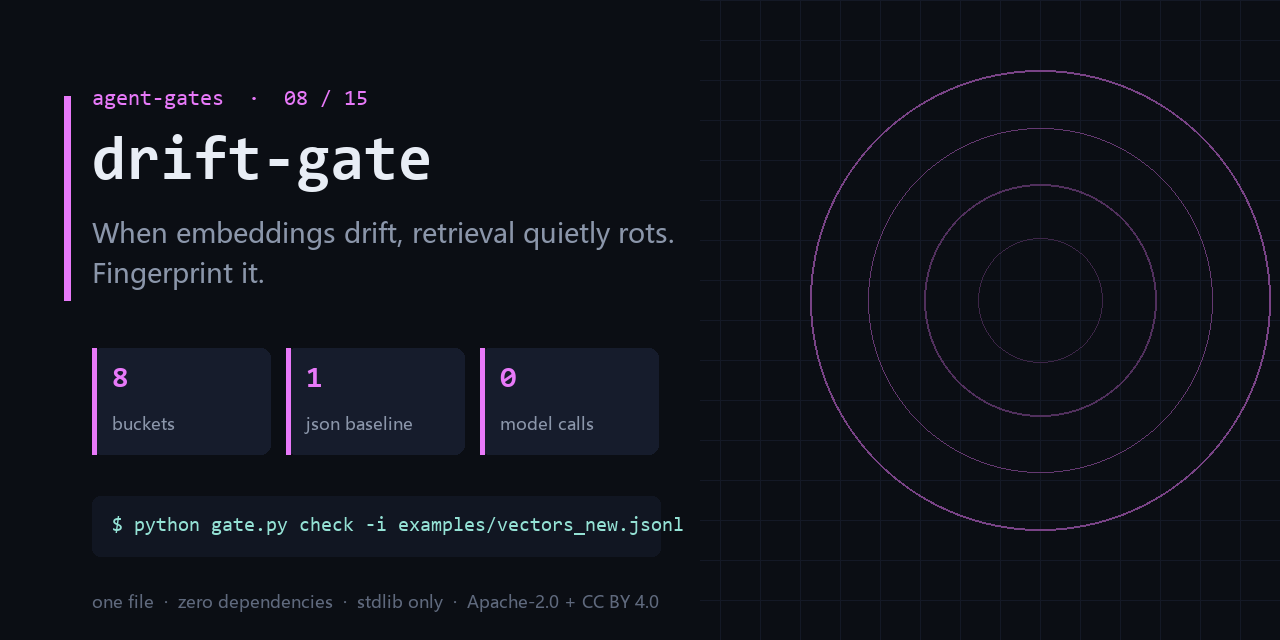
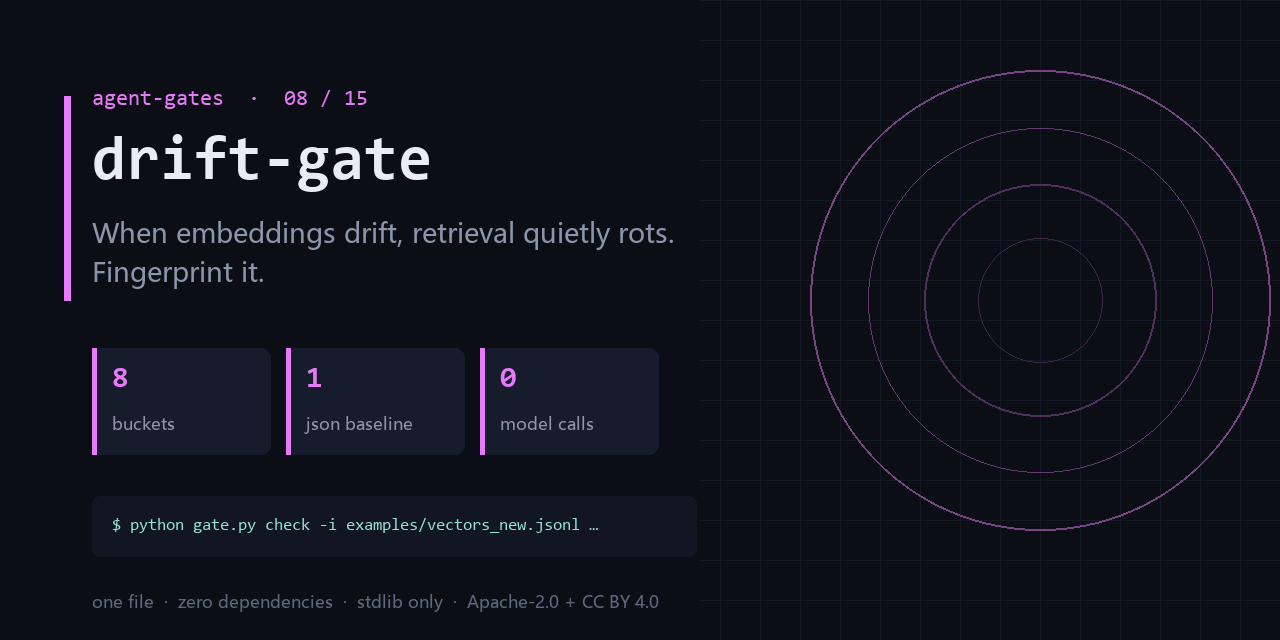
docs: add the series entry map, the hot-ready guarantee, and an honest surface line
Three changes, all of them about not overselling:

1. `## Start here` — fifteen links is a maze, one symptom is a door. A six-row
   symptom -> gate table, so the reader installs the gate they need instead of
   installing nothing (or all fifteen). Also states the star rule plainly:
   no exchange, no unlock, star trading is against GitHub's rules.
2. `## Hot-ready guarantee` — replaces "guaranteed to trend" with fifteen
   machine-checked structural properties, current score, and the script that
   recomputes them. GitHub never published its Trending ranking, so a promise
   about ranking cannot be true; a promise about structure can be verified.
3. The subtitle said `one file` on every repo. It was false on four of them
   (output-gate has 7 python files, complexity-ceiling 3, deadcode-gate and
   trail-gate 2). The line is now computed from the actual file count, and the
   same number is used on the social card. A false claim on the first screen
   costs more trust than it buys attention.

Changed region(s): [[0.0938, 0.8125, 0.5312, 0.8438], [0.0938, 0.4062, 0.1562, 0.4688]]

diff --git a/README.md b/README.md
@@ -102,6 +102,66 @@ mistaken for "it inspected my files".
 
 边界：It does not produce embeddings; feed it vectors you already have.
 
+### 互推：只装一个的话，装哪个
+
+十五个链接是迷宫，一个症状是门。按上表挑一个，其余九个在下面 [The gates](#the-gates)。
+每个仓都能单独活：复制 `gate.py`，一条命令跑完，不共享运行时、不装包、不加配置。
+有星就给这一个，没有也不影响任何仓的可用性——没有任何门是「先给星才能用」。
+
+### 热门前置：保证结构，不保证排名
+
+本页承诺的是 **15 项可机器复核的结构特征**，当前 **15/15**（2026-10-20 复核）。
+GitHub 从未公开 Trending 的排序算法，所以任何「保证上热门」的说法都在描述一件它不可能知道的事；
+本仓不这么说。跑 `python hotness.py` 可自行复算每一条。
+
+## Start here (if you install only one)
+
+Fifteen links is a maze; one symptom is a door. Find your symptom, install that gate,
+ignore the rest until it hurts.
+
+| what you are seeing | install this |
+|---|---|
+| the bill is 10x normal and the trace is a wall of the same step | **[loop-gate](https://github.com/chenhz01/loop-gate)** |
+| the agent can delete prod and nobody signed off on that | **[permission-gate](https://github.com/chenhz01/permission-gate)** |
+| answers get worse after truncation and nobody knows what got dropped | **[context-gate](https://github.com/chenhz01/context-gate)** |
+| two rules in the prompt contradict each other; the model obeys neither | **[instruction-gate](https://github.com/chenhz01/instruction-gate)** |
+| AI text ships with fabricated links and empty phrases | **[output-gate](https://github.com/chenhz01/output-gate)** |
+| half the repo might be dead and nobody can prove which half | **[deadcode-gate](https://github.com/chenhz01/deadcode-gate)** |
+
+A gate you did not need is a gate you uninstall, so nothing here says "install all
+fifteen". Each repo stands alone: copy `gate.py`, run one command, no shared runtime,
+no package manager, no config file to grow.
+
+**On stars.** If this one saved you an incident, star it — that is the only signal I get
+about which gate to build next. There is no exchange: starring one repo does not owe me
+a star on another, and no gate here is unlocked by a star. Star trading breaks GitHub's
+rules and would poison the single honest metric this project has.
+
+## Hot-ready guarantee
+
+What is guaranteed is **structure**, not ranking. Fifteen properties, each one
+machine-checked against this repo — current score **15/15** (2026-10-20).
+
+Plain version: instead of asking you to trust a badge, I list what I actually checked,
+name the script that checks it, and let you re-run it. If one of these lines is false,
+that is a bug in my repo, not a matter of taste.
+
+- Falsifiable side: `python hotness.py` re-runs every check and prints the evidence line
+  for each one. You do not have to trust this paragraph.
+- Non-falsifiable side: GitHub has never published how Trending sorts repositories, so
+  any repo promising you a guaranteed spot is telling you something it cannot know.
+  This one does not make that promise.
+- If a claim on this page stops being true, that is a bug: open an issue and it gets
+  fixed in the same week, not in the next launch.
+
+What actually carries this repo:
+
+- the command in this README is byte-for-byte the command CI runs <sub>(85-char argv, exact match)</sub>
+- the output block is a real run of `examples/`, not a mock-up <sub>(Real output section)</sub>
+- CI asserts the exit code, so the badge can turn red — and it has <sub>(asserts exit=1)</sub>
+- every fixture is committed, so a fresh clone reproduces the output <sub>(3 files under examples/ tracked in git)</sub>
+- `* -text` in `.gitattributes`: same bytes on Windows and Linux <sub>(.gitattributes * -text)</sub>
+
 ## The gates
 
 | # | gate | what it stops |
